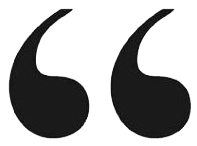
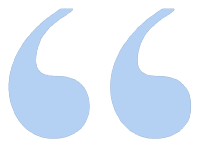
flipquote section done

diff --git a/_site/css/main.css b/_site/css/main.css
@@ -1,1 +1,1 @@
-body,h1,h2,h3,h4,h5,h6,p,blockquote,pre,hr,dl,dd,ol,ul,figure{margin:0;padding:0}h3{font-family:Arial, Helvetica, sans-serif;color:#454545}img{max-width:100%;vertical-align:middle}a{text-decoration:none}a:hover{text-decoration:none}.site-header #top-bar{background-color:#888}.site-header #top-bar img{width:2em;height:auto;margin-left:1em;padding:.2em}.site-header .wrapper{padding:1em 0 3em;border-bottom:0.3em #454545 solid;box-shadow:0 0.5em 0 #888}.site-header .wrapper .navbar{background-color:#fff;border:none}.site-header .wrapper .navbar .navbar-brand #logo{margin-top:.5em}.site-header .wrapper .navbar .navbar-right li{float:right}.site-header .wrapper .navbar .navbar-right li a{padding:0 .5em}.home .subtitle{padding:3em 0}.home .subtitle p{color:#202020;text-align:justify;font-size:1.3em;font-family:"Gill Sans","Gill Sans MT",Calibri,sans-serif;line-height:1.3em;padding:0px 1em}.home .subtitle p span{font-size:1.1em;letter-spacing:.1em}.home .book-section{padding:3em 0;color:#888;text-align:justify;font-family:"Gill Sans","Gill Sans MT",Calibri,sans-serif}.home .book-section .book-description{margin-top:2em}.home .book-section .book-image img{padding-bottom:1em}.home .book-section .book-buttons button{width:100%;border-radius:0;color:#fff;background-color:#031a37;border:none}.site-footer .connect-wrapper{padding:6em 0;border-top:0.1em #a9a9a9 solid;border-bottom:0.1em #a9a9a9 solid}.site-footer .connect-wrapper h3{font-family:"Gill Sans","Gill Sans MT",Calibri,sans-serif;color:#454545}.site-footer .connect-wrapper .smedia{padding-bottom:6em}.site-footer .connect-wrapper .smedia img{width:4em;height:auto}.site-footer .connect-wrapper form input{text-align:center;padding:.4em;width:100%}.site-footer .connect-wrapper form .email{border:0.2em #454545 solid}.site-footer .connect-wrapper form .button{background-color:#031a37;color:#fff;border:0.2em #031a37 solid}.site-footer .address-wrapper{padding:6em 0}.site-footer .address-wrapper h4{color:#031a37}.site-footer .address-wrapper p{color:#888;font-family:Arial,Helvetica,sans-serif;margin:0;letter-spacing:0.05em}.site-footer .address-wrapper .description{color:#202020}@media (max-width: 800px){.site-header{height:100%}.site-header #top-bar{background-color:#888}.site-header #top-bar img{width:2em;height:auto;margin-left:1em;padding:.2em}.site-header .wrapper{padding-bottom:.5em;border-bottom:0.5em #888 solid}.site-header .wrapper .navbar{background-color:#fff;border:none}.site-header .wrapper .navbar .navbar-brand #logo{margin-top:.5em}.site-header .wrapper .navbar .navbar-right li{float:right}.site-header .wrapper .navbar .navbar-right li a{padding:0 .5em}}@media (max-width: 800px){.site-footer .connect-wrapper{padding:3em 0 0;border-bottom:none}.site-footer .connect-wrapper h3{text-align:center;margin-bottom:1em}.site-footer .connect-wrapper .smedia{padding-bottom:2em}.site-footer .connect-wrapper .smedia img{width:100%}.site-footer .connect-wrapper form input{padding:.8em;margin:1em 0;font-size:1.2em}.site-footer .address-wrapper h4{font-size:2.5em;text-align:center}.site-footer .address-wrapper p{text-align:center;font-size:1.7em}.site-footer .address-wrapper .description{padding-top:2em}}
+body,h1,h2,h3,h4,h5,h6,p,blockquote,pre,hr,dl,dd,ol,ul,figure{margin:0;padding:0}h3{font-family:Arial, Helvetica, sans-serif;color:#454545}img{max-width:100%;vertical-align:middle}a{text-decoration:none}a:hover{text-decoration:none}.site-header #top-bar{background-color:#888}.site-header #top-bar img{width:2em;height:auto;margin-left:1em;padding:.2em}.site-header .wrapper{padding:1em 0 3em;border-bottom:0.3em #454545 solid;box-shadow:0 0.5em 0 #888}.site-header .wrapper .navbar{background-color:#fff;border:none}.site-header .wrapper .navbar .navbar-brand #logo{margin-top:.5em}.site-header .wrapper .navbar .navbar-right li{float:right}.site-header .wrapper .navbar .navbar-right li a{padding:0 .5em}.home .subtitle{padding:3em 0}.home .subtitle p{color:#202020;text-align:justify;font-size:1.3em;font-family:"Gill Sans","Gill Sans MT",Calibri,sans-serif;line-height:1.3em;padding:0px 1em}.home .subtitle p span{font-size:1.1em;letter-spacing:.1em}.home .book-section{padding:3em 0;color:#888;text-align:justify;font-family:"Gill Sans","Gill Sans MT",Calibri,sans-serif}.home .book-section .book-description{margin-top:2em}.home .book-section .book-image img{padding-bottom:1em}.home .book-section .book-buttons button{width:100%;border-radius:0;color:#fff;background-color:#031a37;border:none;padding:.5em;font-family:Arial,Helvetica,sans-serif}.home .endorsements-section{padding:5em 0;border-top:0.1em #a9a9a9 solid;background-image:url("../images/graphics/quote-marks.png");background-repeat:no-repeat}.home .endorsements-section p{color:#888;font-family:"Gill Sans","Gill Sans MT",Calibri,sans-serif;margin-bottom:0;font-size:.9em;padding-left:2em}.home .endorsements-section #author{color:#0f3567;margin-bottom:4em}.home .endorsements-section a{text-align:center}.home .endorsements-section a:hover{text-decoration:none}.home .flip-quote-section{padding:5em 0;border-top:0.1em #a9a9a9 solid;text-align:center}.home .flip-quote-section img{padding:0 2em}.home .flip-quote-section h4{color:#031a37;font-family:"Gill Sans","Gill Sans MT",Calibri,sans-serif}.home .engage-us-section{padding:5em 0;border-top:0.1em #a9a9a9 solid}.home .engage-us-section h3{text-align:center;margin-bottom:5em}.site-footer .connect-wrapper{padding:6em 0;border-top:0.1em #a9a9a9 solid;border-bottom:0.1em #a9a9a9 solid}.site-footer .connect-wrapper h3{font-family:"Gill Sans","Gill Sans MT",Calibri,sans-serif;color:#454545}.site-footer .connect-wrapper .smedia{padding-bottom:6em}.site-footer .connect-wrapper .smedia img{width:4em;height:auto}.site-footer .connect-wrapper form input{text-align:center;padding:.4em;width:100%}.site-footer .connect-wrapper form .email{border:0.2em #454545 solid}.site-footer .connect-wrapper form .button{background-color:#031a37;color:#fff;border:0.2em #031a37 solid;font-family:Arial,Helvetica,sans-serif}.site-footer .address-wrapper{padding:6em 0}.site-footer .address-wrapper h4{color:#031a37}.site-footer .address-wrapper p{color:#888;font-family:Arial,Helvetica,sans-serif;margin:0;letter-spacing:0.05em}.site-footer .address-wrapper .description{color:#202020}@media (max-width: 800px){.site-header{height:100%}.site-header #top-bar{background-color:#888}.site-header #top-bar img{width:2em;height:auto;margin-left:1em;padding:.2em}.site-header .wrapper{padding-bottom:.5em;border-bottom:0.5em #888 solid}.site-header .wrapper .navbar{background-color:#fff;border:none}.site-header .wrapper .navbar .navbar-brand #logo{margin-top:.5em}.site-header .wrapper .navbar .navbar-right li{float:right}.site-header .wrapper .navbar .navbar-right li a{padding:0 .5em}}@media (max-width: 800px){.site-footer .connect-wrapper{padding:3em 0 0;border-bottom:none}.site-footer .connect-wrapper h3{text-align:center;margin-bottom:1em}.site-footer .connect-wrapper .smedia{padding-bottom:2em}.site-footer .connect-wrapper .smedia img{width:100%}.site-footer .connect-wrapper form input{padding:.8em;margin:1em 0;font-size:1.2em}.site-footer .address-wrapper h4{font-size:2.5em;text-align:center}.site-footer .address-wrapper p{text-align:center;font-size:1.7em}.site-footer .address-wrapper .description{padding-top:2em}}

diff --git a/index.html b/index.html
@@ -6,6 +6,9 @@ layout: default
 	<div class="subtitle col-md-8 col-md-offset-2">
 		<p>We work with organizations all over the globe to fuel collaboration, enhance creativity, and develop today’s essential workplace capabilities: <span>Followership, Leadership, innovation & Partnership skills.</span></p>
 	</div>
+
+<!-- BOOK SECTION STARTING NOW -->
+
 	<div class="book-section col-md-8 col-md-offset-2">
 		<div class="book-description col-md-7">
 			<div class="col-md-12">
@@ -26,15 +29,63 @@ layout: default
 		</div>
 		<div class="book-buttons col-md-12">
 			<div class="col-xs-12 col-sm-4 col-md-4">
-				<button type="button" class="btn btn-default">Amazon</button>
+				<a href="">
+					<button type="button" class="btn btn-default">Amazon</button>
+				</a>
 			</div>
 			<div class="col-xs-12 col-sm-4 col-md-4">
-				<button type="button" class="btn btn-default">Bulk Purchase</button>
+				<a href="">
+					<button type="button" class="btn btn-default">Bulk purchase</button>
+				</a>
 			</div>
 			<div class="col-xs-12 col-sm-4 col-md-4">
-				<button type="button" class="btn btn-default">More Info</button>
+				<a href="">
+					<button type="button" class="btn btn-default">More info</button>
+				</a>
 			</div>
-		<div>
+		</div>
 	</div>
+
+<!-- ENDORSEMENTS -->
+
+	<div class="endorsements-section col-md-8 col-md-offset-2">
+		<div class="col-md-10">
+			<br>
+			<p>“This book practically glows with energy and vision! In highly accessible, entertaining portions Sam and Marc Hurwitz have presented us with a forward thinking, prescient guide to success in business in today’s unpredictable market.”</p>
+			<p id="author">Marshall Goldsmith, top-ranked executive coach; author and editor of 34 books including the global bestsellers MOJO and What Got You Here Won’t Get You There</p>
+		</div>
+		<div class="col-md-2">
+			<img src="./images/people/square-marc.jpg" alt="Marshall Goldsmith">
+		</div>
+		<div class="col-md-12">
+			<a href="">
+				<p>Click here to see more endorsements</p>
+			</a>
+		</div>
+	</div>
+
+<!-- FLIP QUOTE -->
+	
+	<div class="flip-quote-section col-md-8 col-md-offset-2">
+		<div class="col-md-4 col-md-offset-4">
+			<img src="./images/graphics/Flipquote.png" alt="FlipQuote">
+		</div>
+		<div class="col-md-8 col-md-offset-2">
+			<h4>The best partnerships are an easy flow from symmetry to mimicry to complementarity to individuality.</h4>
+		</div>
+	</div>
+
+<!-- ENGAGE US -->
+
+	<div class="engage-us-section col-md-8 col-md-offset-2">
+		<h3>Inquire about engaging us for...</h3>
+		<div class="col-md-2">
+			<img src="./images/puzzle/puzzle.png" alt="">
+		</div>
+		<div class="col-md-10">
+		</div>
+	</div>
+
+<!-- MEET SAM AND MARC -->
 
 </div>

diff --git a/_site/index.html b/_site/index.html
@@ -76,6 +76,9 @@
 	<div class="subtitle col-md-8 col-md-offset-2">
 		<p>We work with organizations all over the globe to fuel collaboration, enhance creativity, and develop today’s essential workplace capabilities: <span>Followership, Leadership, innovation & Partnership skills.</span></p>
 	</div>
+
+<!-- BOOK SECTION STARTING NOW -->
+
 	<div class="book-section col-md-8 col-md-offset-2">
 		<div class="book-description col-md-7">
 			<div class="col-md-12">
@@ -96,16 +99,64 @@
 		</div>
 		<div class="book-buttons col-md-12">
 			<div class="col-xs-12 col-sm-4 col-md-4">
-				<button type="button" class="btn btn-default">Amazon</button>
+				<a href="">
+					<button type="button" class="btn btn-default">Amazon</button>
+				</a>
 			</div>
 			<div class="col-xs-12 col-sm-4 col-md-4">
-				<button type="button" class="btn btn-default">Bulk Purchase</button>
+				<a href="">
+					<button type="button" class="btn btn-default">Bulk purchase</button>
+				</a>
 			</div>
 			<div class="col-xs-12 col-sm-4 col-md-4">
-				<button type="button" class="btn btn-default">More Info</button>
+				<a href="">
+					<button type="button" class="btn btn-default">More info</button>
+				</a>
 			</div>
-		<div>
+		</div>
 	</div>
+
+<!-- ENDORSEMENTS -->
+
+	<div class="endorsements-section col-md-8 col-md-offset-2">
+		<div class="col-md-10">
+			<br>
+			<p>“This book practically glows with energy and vision! In highly accessible, entertaining portions Sam and Marc Hurwitz have presented us with a forward thinking, prescient guide to success in business in today’s unpredictable market.”</p>
+			<p id="author">Marshall Goldsmith, top-ranked executive coach; author and editor of 34 books including the global bestsellers MOJO and What Got You Here Won’t Get You There</p>
+		</div>
+		<div class="col-md-2">
+			<img src="./images/people/square-marc.jpg" alt="Marshall Goldsmith">
+		</div>
+		<div class="col-md-12">
+			<a href="">
+				<p>Click here to see more endorsements</p>
+			</a>
+		</div>
+	</div>
+
+<!-- FLIP QUOTE -->
+	
+	<div class="flip-quote-section col-md-8 col-md-offset-2">
+		<div class="col-md-4 col-md-offset-4">
+			<img src="./images/graphics/Flipquote.png" alt="FlipQuote">
+		</div>
+		<div class="col-md-8 col-md-offset-2">
+			<h4>The best partnerships are an easy flow from symmetry to mimicry to complementarity to individuality.</h4>
+		</div>
+	</div>
+
+<!-- ENGAGE US -->
+
+	<div class="engage-us-section col-md-8 col-md-offset-2">
+		<h3>Inquire about engaging us for...</h3>
+		<div class="col-md-2">
+			<img src="./images/puzzle/puzzle.png" alt="">
+		</div>
+		<div class="col-md-10">
+		</div>
+	</div>
+
+<!-- MEET SAM AND MARC -->
 
 </div>
 

diff --git a/_sass/_layout.scss b/_sass/_layout.scss
@@ -80,7 +80,52 @@
 				color: #fff;
 				background-color: $navy;
 				border: none;
+				padding: .5em;
+				font-family: $arial;
 			}
+		}
+	}
+	.endorsements-section {
+		padding: 5em 0;
+		border-top: 0.1em $light-grey solid;
+		background-image: url("../images/graphics/quote-marks.png");
+		background-repeat: no-repeat;
+		p {
+			color: $grey;
+			font-family: $gill;
+			margin-bottom: 0;
+			font-size: .9em;
+			padding-left: 2em;
+		}
+		#author {
+			color: $dark-blue;
+			margin-bottom: 4em;
+		}
+		a {
+			text-align: center;
+			&:hover {
+				text-decoration: none;
+			}
+		}
+	}
+	.flip-quote-section {
+		padding: 5em 0;
+		border-top: 0.1em $light-grey solid;
+		text-align: center;
+		img {
+			padding: 0 2em;
+		}
+		h4 {
+			color: $navy;
+			font-family: $gill;
+		}
+	}
+	.engage-us-section {
+		padding: 5em 0;
+		border-top: 0.1em $light-grey solid;
+		h3 {
+			text-align: center;
+			margin-bottom: 5em;
 		}
 	}
 }
@@ -120,6 +165,7 @@
 				background-color: $navy;
 				color: #fff;
 				border: 0.2em $navy solid;
+				font-family: $arial;
 			}
 		}
 	}
